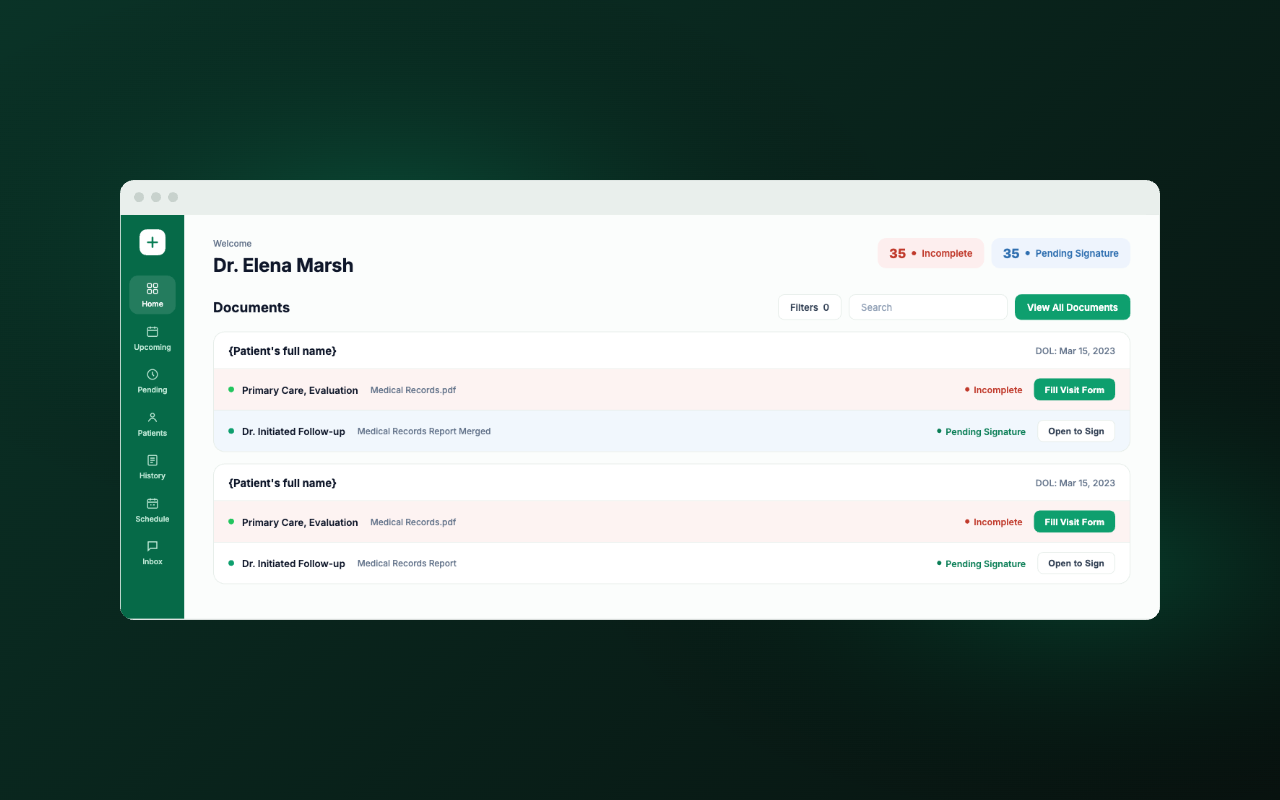
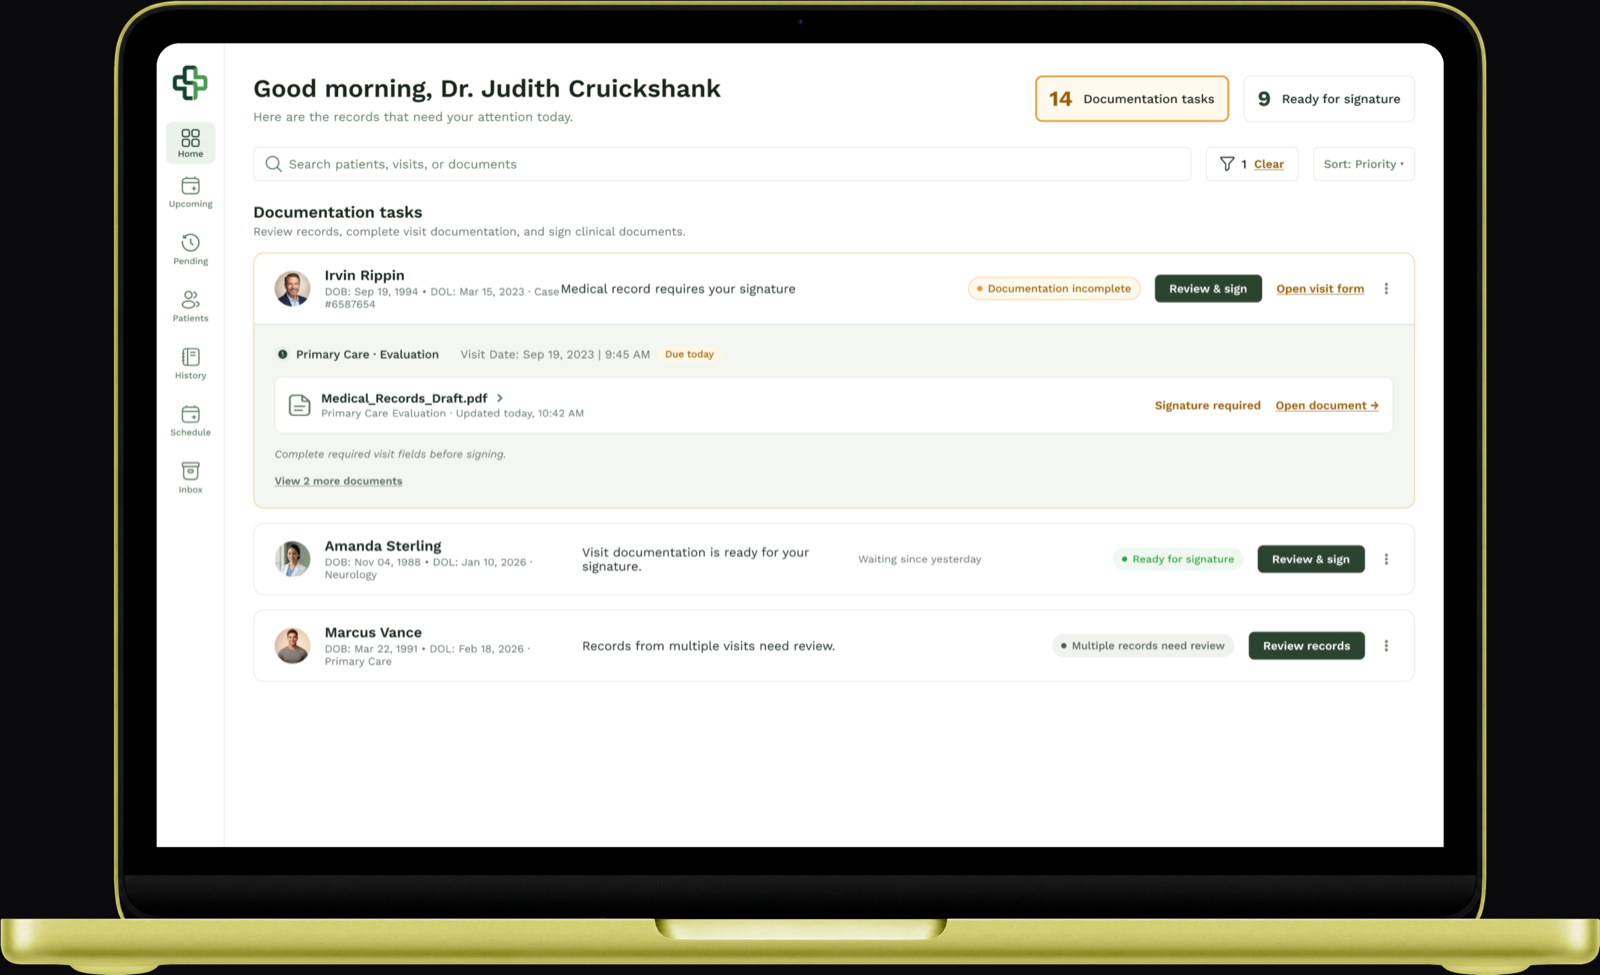
Use the Mockuuups MacBook mockup for the HealthConnect card cover
Composites the user's transparent MacBook Neo mockup (already showing
the doctor-home screen) onto a solid black backdrop matching the
site's --bg token, replacing the earlier hand-built browser-chrome
composite. Downscaled to 1600px wide to keep the asset reasonable.

diff --git a/index.html b/index.html
@@ -201,7 +201,7 @@
 
         <a href="healthconnect.html" class="case-card case-card--featured">
           <div class="case-card__art case-card__art--2">
-            <img src="assets/healthconnect/card-cover.png" alt="HealthConnect doctor home screen shown in a browser-window mockup on a dark green backdrop" class="case-card__cover" />
+            <img src="assets/healthconnect/card-cover.png" alt="HealthConnect doctor home screen shown in a MacBook mockup on a black background" class="case-card__cover" />
             <div class="case-card__overlay">
               <div class="case-card__tags">
                 <span>Healthcare SaaS</span><span>Multi-Role Platform</span>
